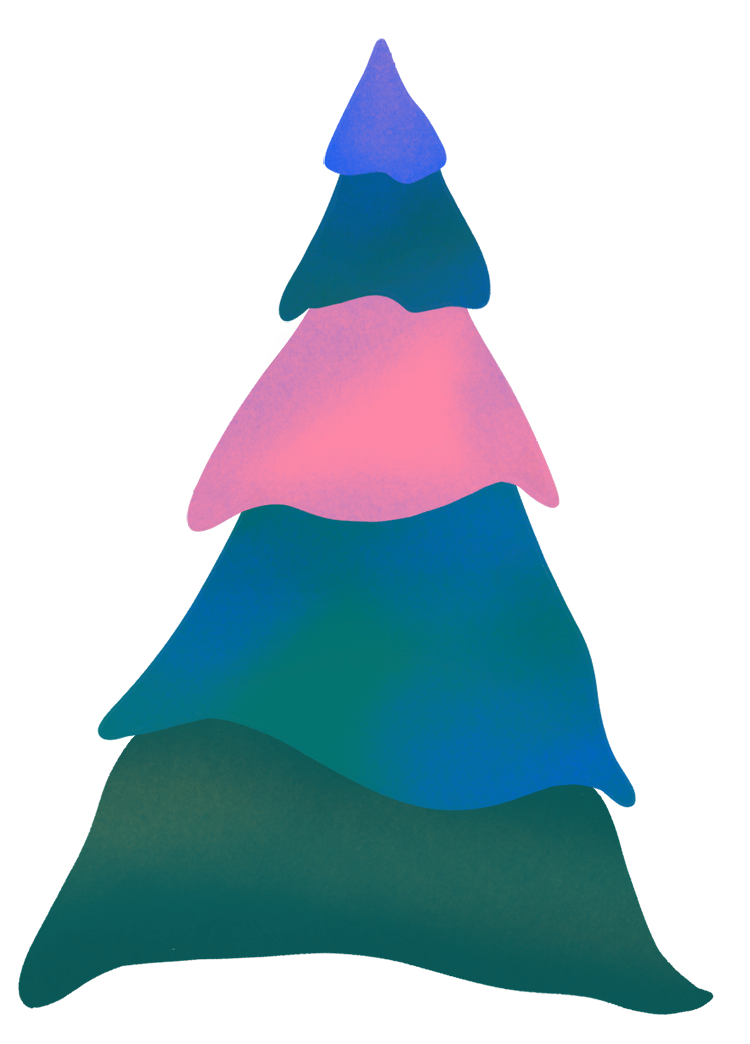
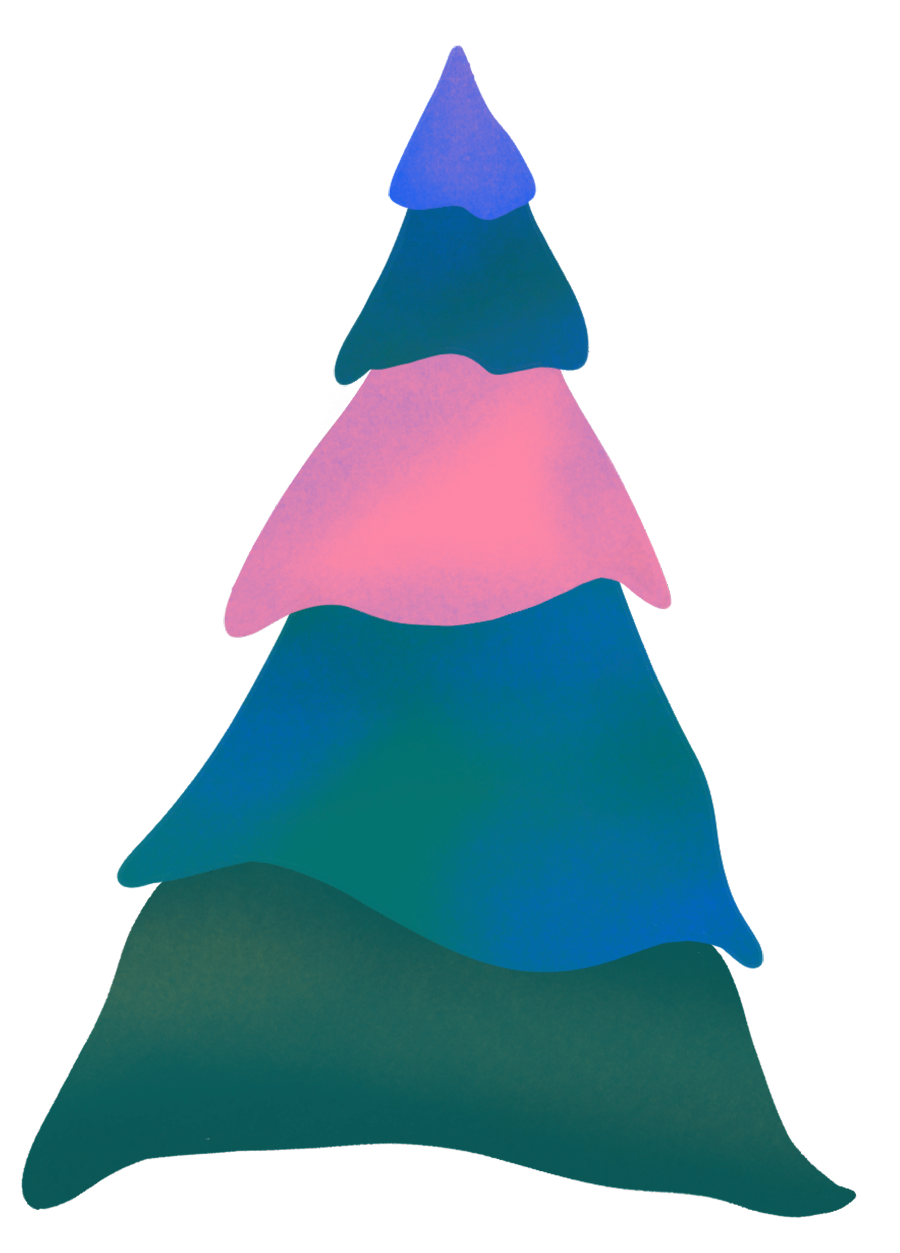
basis background animation & speaking santa

diff --git a/js/script.js b/js/script.js
@@ -5,6 +5,9 @@
     let poseNet;
     let pose;
 
+    
+
+
 
     let decorationsArr;
 
@@ -41,6 +44,7 @@
         imgHand = loadImage('assets/img/hand.png');
         imgReindeer = loadImage('assets/img/reindeer.png');
         imgSanta = loadImage('assets/img/santa.png');
+        imgHappySanta = loadImage('assets/img/santa.png');
         imgTree = loadImage('assets/img/tree.png');
 
         imgDecoration0 = loadImage('assets/img/ball0.png');
@@ -87,25 +91,24 @@
         //rect(x, y, w, [h], [tl], [tr], [br], [bl])
         fill(255);
       
-        //dit is waar de kerstman komt
-        //rect(490, 0, 150, 150);
-        image(imgSanta, 490, 0, 150, 172);
+   
         //CHRISTMAS TREE
        // rect(195,66, 250, 348);
-        image(imgTree, 195, 66, 250, 348);
+        image(imgTree, 170, 30, 300, 417);
         //REINDEER
         //rect(0, 300, 150, 150);
         image(imgReindeer, 0, 330, 160, 150);
     
        
         if (pose) {
-            getSkeletonpoints();
-            showKerstbal();
+           
+          showKerstbal();
             askSanta();
+            //op het einde zetten zodat de neus over de images komt, ipv eronder
+            getSkeletonpoints();
         }
 
     }
-
 
 
 
@@ -126,12 +129,12 @@
         decorationsArr.forEach(kerstbal => {
             //als je er niet over gaat
             if (!kerstbal.rollover) {
-                checkOver(kerstbal);
+                checkNoseOver(kerstbal);
                 image(kerstbal.image, kerstbal.ballX, kerstbal.ballY, kerstbal.widthBall, kerstbal.heightBall)
             }
             //als je er wel over gaat
             else {
-                checkLaatlos(kerstbal);
+                checkReindeerRelease(kerstbal);
                 //als je hem vastneemt
                 if (!kerstbal.laatLos) {
                     image(kerstbal.image, pose.nose.x, pose.nose.y, kerstbal.widthBall, kerstbal.heightBall);
@@ -148,7 +151,7 @@
 
     }
 
-    function checkOver(kerstbal) {
+    function checkNoseOver(kerstbal) {
         // Is nose over object
         let noseX = pose.nose.x;
         let noseY = pose.nose.y;
@@ -158,7 +161,8 @@
         }
     }
 
-    function checkLaatlos(kerstbal) {
+
+    function checkReindeerRelease(kerstbal) {
         if ((pose.leftWrist.x > 0 && pose.leftWrist.x < 150 && pose.leftWrist.y > 330 && pose.leftWrist.y < 480)) {
             console.log('ik laat hem los');
             kerstbal.laatLos = true;
@@ -173,13 +177,31 @@
         let noseX = pose.nose.x;
         let noseY = pose.nose.y;
 
-        if (noseX > 490 && noseY < 150) {
+             //dit is waar de kerstman komt
+        //rect(490, 0, 150, 150);
+        //als je niet over santa gaat!
+        if(!(noseX > 490 && noseY > 150 && noseY < 288)){
+            image(imgHappySanta, 490, 150, 100, 115);
+        }
+
+      //als je wel over santa gaat!
+        if (noseX > 490 && noseY > 150 && noseY < 288) {
+           image(imgSanta, 480, 140, 120, 135);
             speech = true;
+            santaText = "braaf zijn he";
         }
         else {
             speech = false;
             aanHetPraten = false;
+            santaText = "Dear child, I have to tell you something";
+           
+            
         }
+        textAlign(CENTER);
+        fill(255,255,255);
+        textFont('Space mono');
+        textSize(10);
+        text(santaText, 470, 80, 150, 80);
     }
 
 

diff --git a/index.html b/index.html
@@ -15,11 +15,17 @@
 </head>
 
 <body>
-    <h1>Speech color changer</h1>
+ 
 
-    <p class="hints"></p>
-    <div>
-        <p class="output"><em>...diagnostic messages</em></p>
+    <div class= 'stars'>
+            <h1>Speech color changer</h1>
+
+            <p class="hints"></p>
+            <div>
+                <p class="output"><em>...diagnostic messages</em></p>
+            </div>
+        <img class="background starAnimation1" src="assets/img/background.png" alt="background" width="500" height="600">
+    </div>
     </div>
 
     <script>
@@ -27,10 +33,14 @@
         let christmasDecorationArr = [];
         let speech = false;
         let aanHetPraten = false;
+
+        let santaText = 'Hallo lieve kindjes, ik ben de kerstman';
     </script>
     <!-- <canvas class="canvas" width="600" height="600"></canvas> -->
+    <script src="js/stars.js"></script>
     <script src="js/speech.js"></script>
     <script src="js/script.js"></script>
+ 
 
 
 </body>

diff --git a/css/style.css b/css/style.css
@@ -50,13 +50,45 @@ html, body{
 
 
 body {
-  margin-top: 5rem;
+  margin-top: 2rem;
   background-color: var(--color-primary);
-  background-image: url("../assets/img/background.png");
+  /*background-image: url("../assets/img/background.png");
   background-size: 69rem 52rem;
-  background-repeat: repeat;
-  
+  background-repeat: repeat;*/
+
+  display: grid;
+  grid-template-columns: 1fr;
+  grid-template-rows: 1fr;
 }
+
 .p5Canvas {
   border: 1px solid white;
+
 }
+
+@keyframes flickerAnimation1 {
+  0%   { opacity:1; }
+  50%  { opacity:0; }
+  100% { opacity:1; }
+}
+
+.starAnimation1 {
+  animation: flickerAnimation1 4s infinite;
+
+  
+}
+.test {
+  position: fixed;
+  left: 4rem;
+  top: -20rem;
+}
+
+/*display canvas on top of stars background*/
+/*.stars {
+  grid-row: 1/2;
+  grid-column: 1/2;
+}
+main {
+  grid-row: 1/2;
+  grid-column: 1/2;
+}*/

diff --git a/js/stars.js b/js/stars.js
@@ -1,0 +1,11 @@
+//a very special js file to animate the background stars
+
+console.log(window.innerWidth);
+console.log(window.innerHeight);
+
+let stars = [];
+
+const createStars = () => {
+
+};
+createStars();
